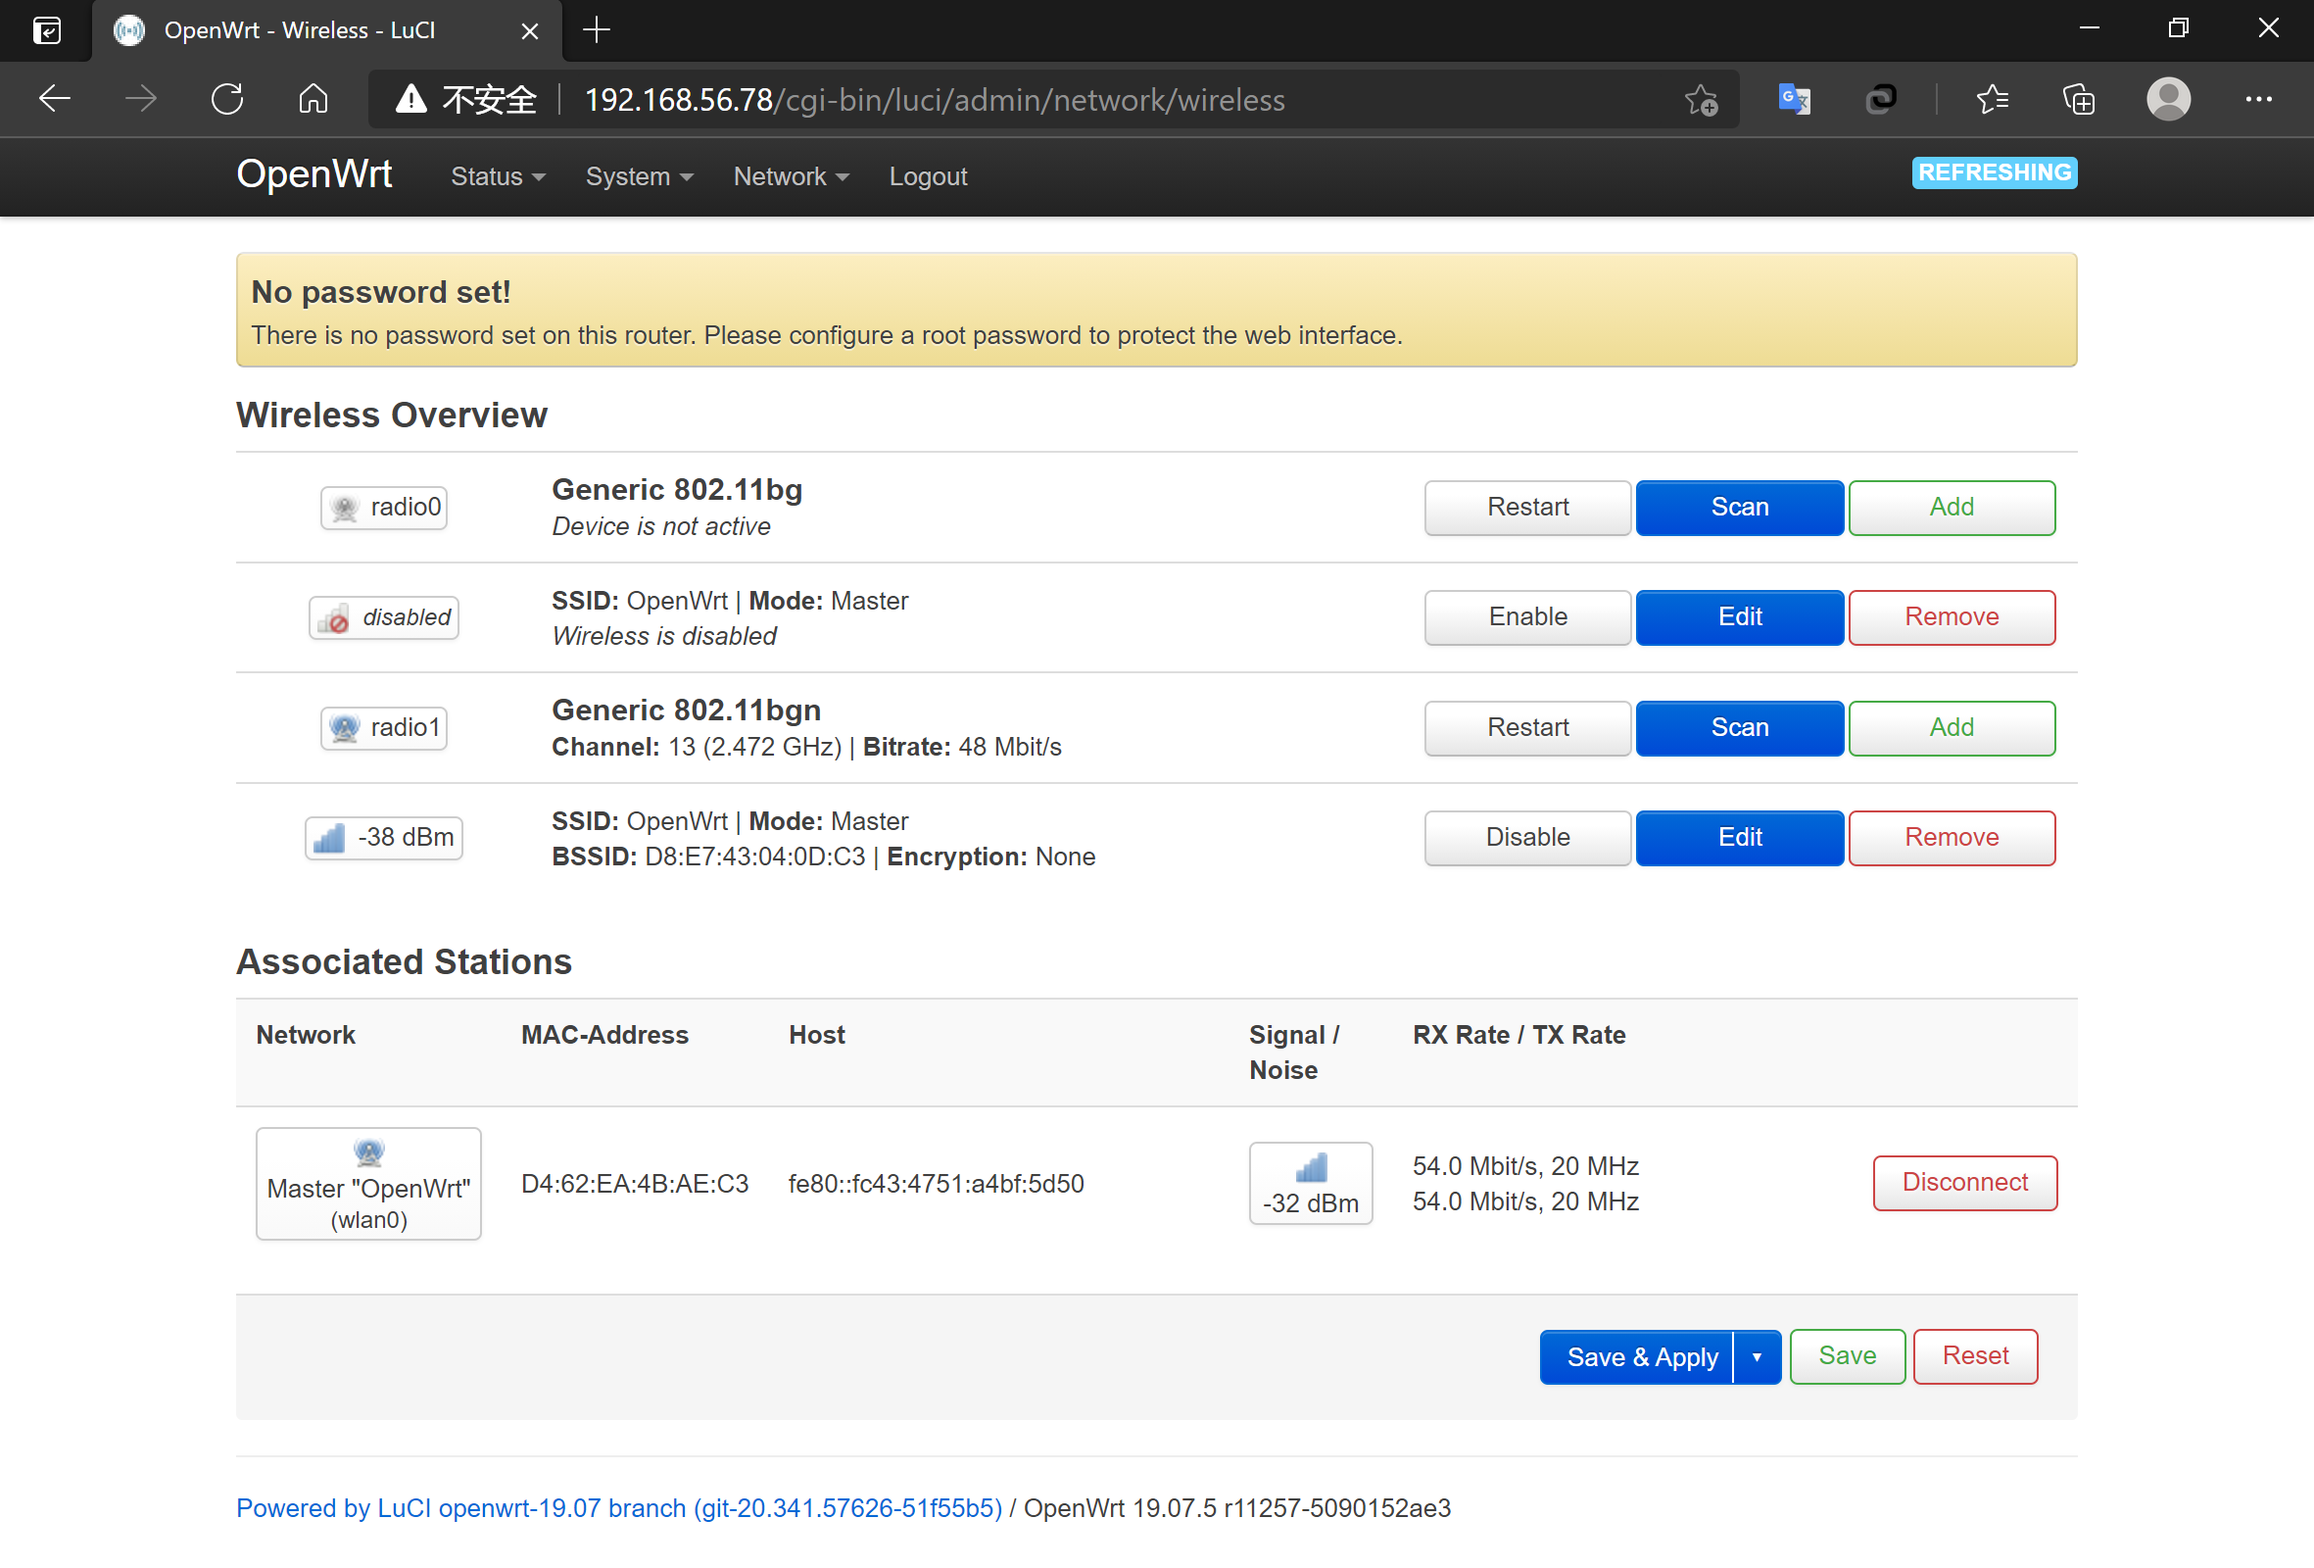
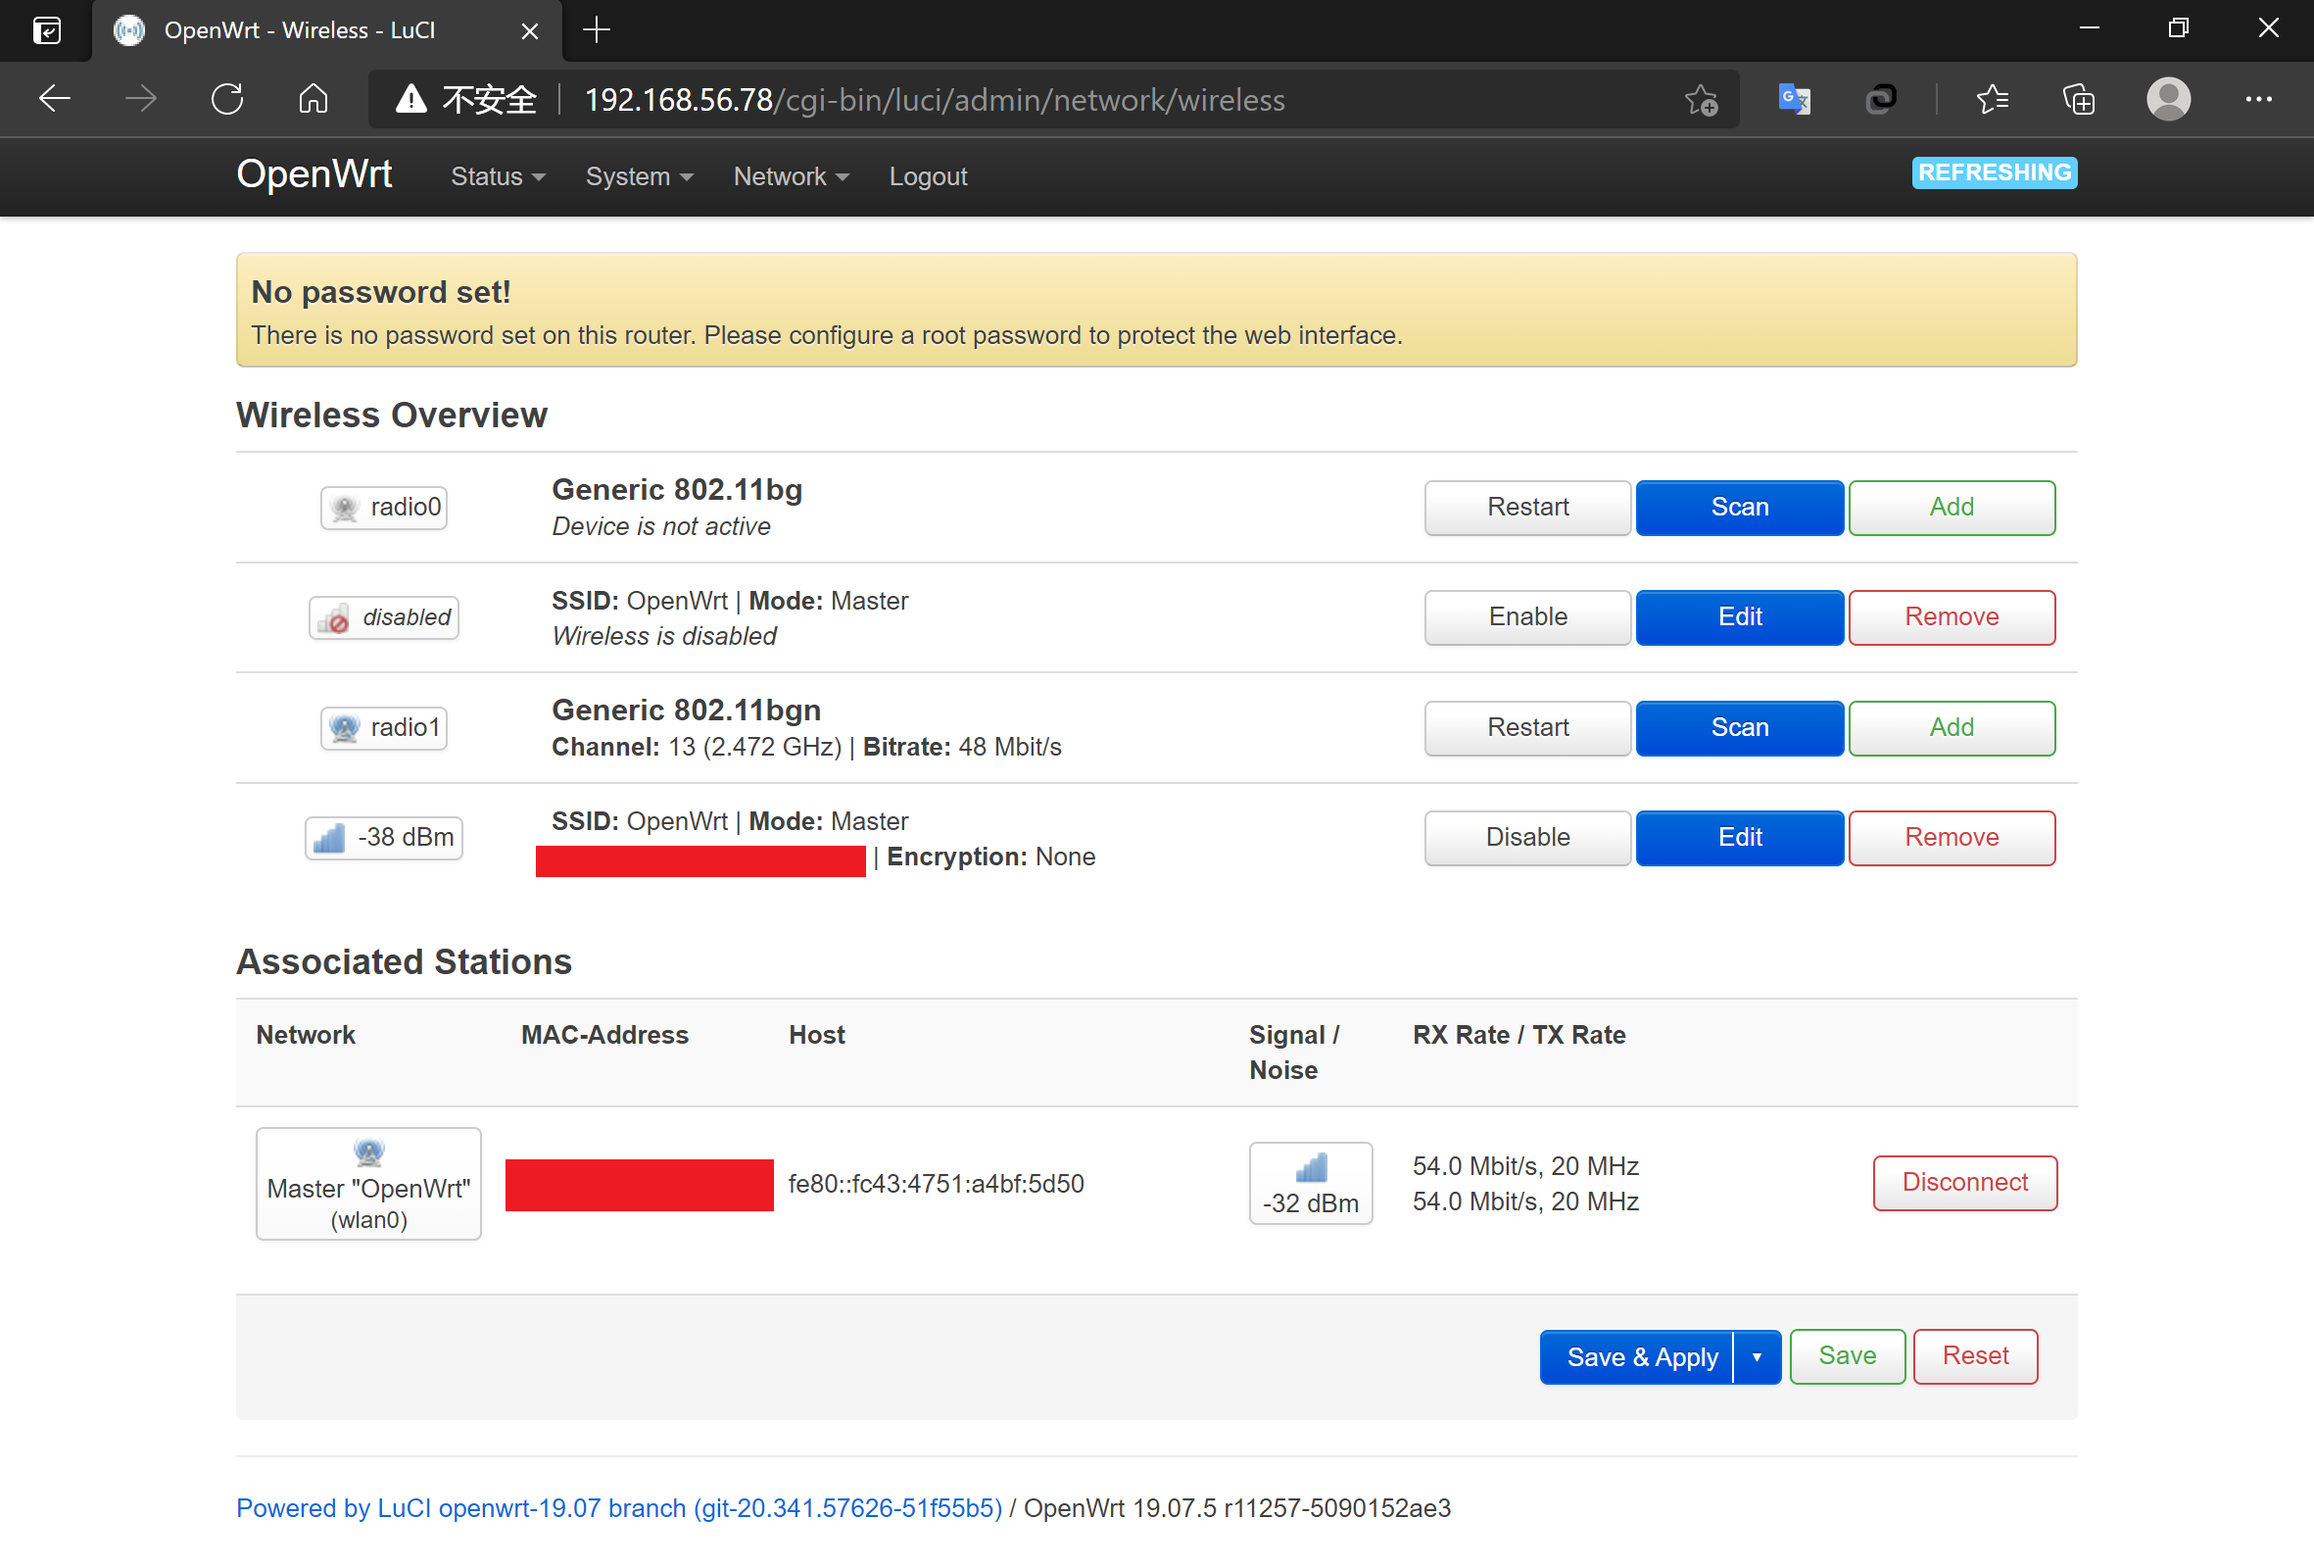
遮盖隐私信息

Changed region(s): [[0.2163, 0.7188, 0.34, 0.7812], [0.2163, 0.5312, 0.3709, 0.5625]]

diff --git a/ch0x01/README.md b/ch0x01/README.md
@@ -1,6 +1,6 @@
-# 无线网络安全基础 课后作业+实验
+# 无线网络安全基础
 
-- [无线网络安全基础 课后作业+实验](#无线网络安全基础-课后作业实验)
+- [无线网络安全基础](#无线网络安全基础)
   - [实验目的](#实验目的)
   - [实验环境](#实验环境)
   - [实验要求](#实验要求)
